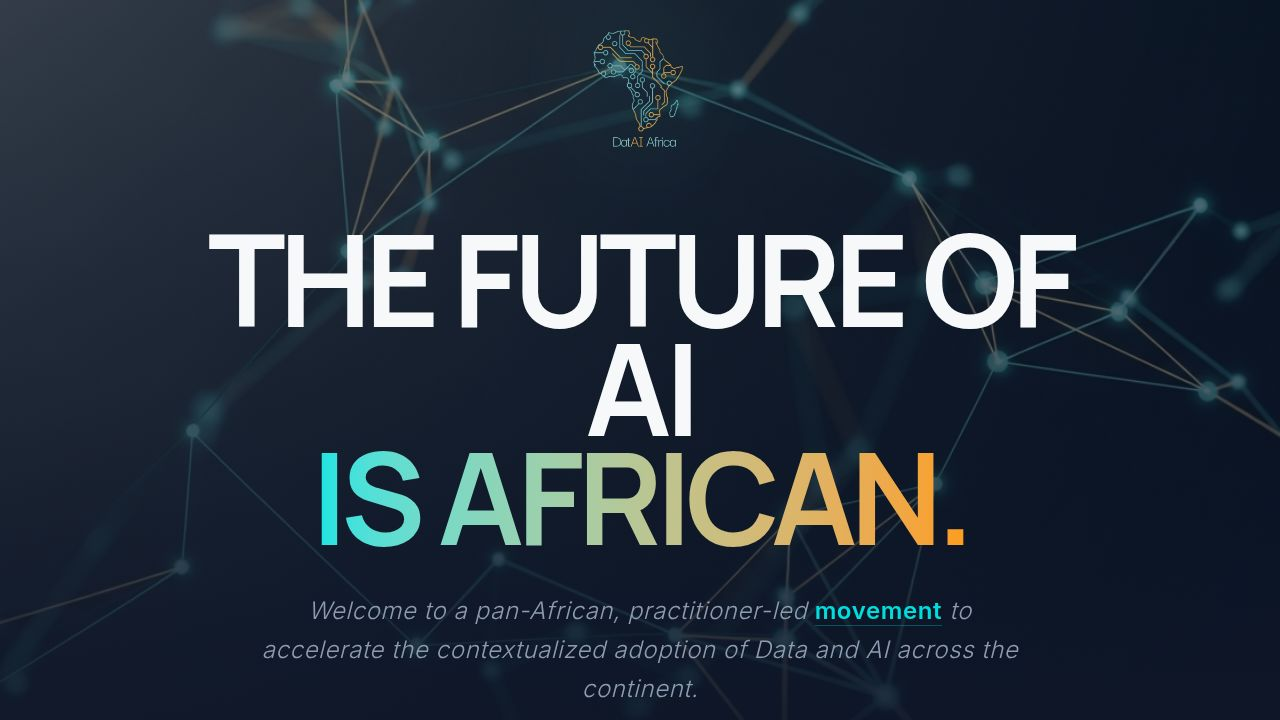
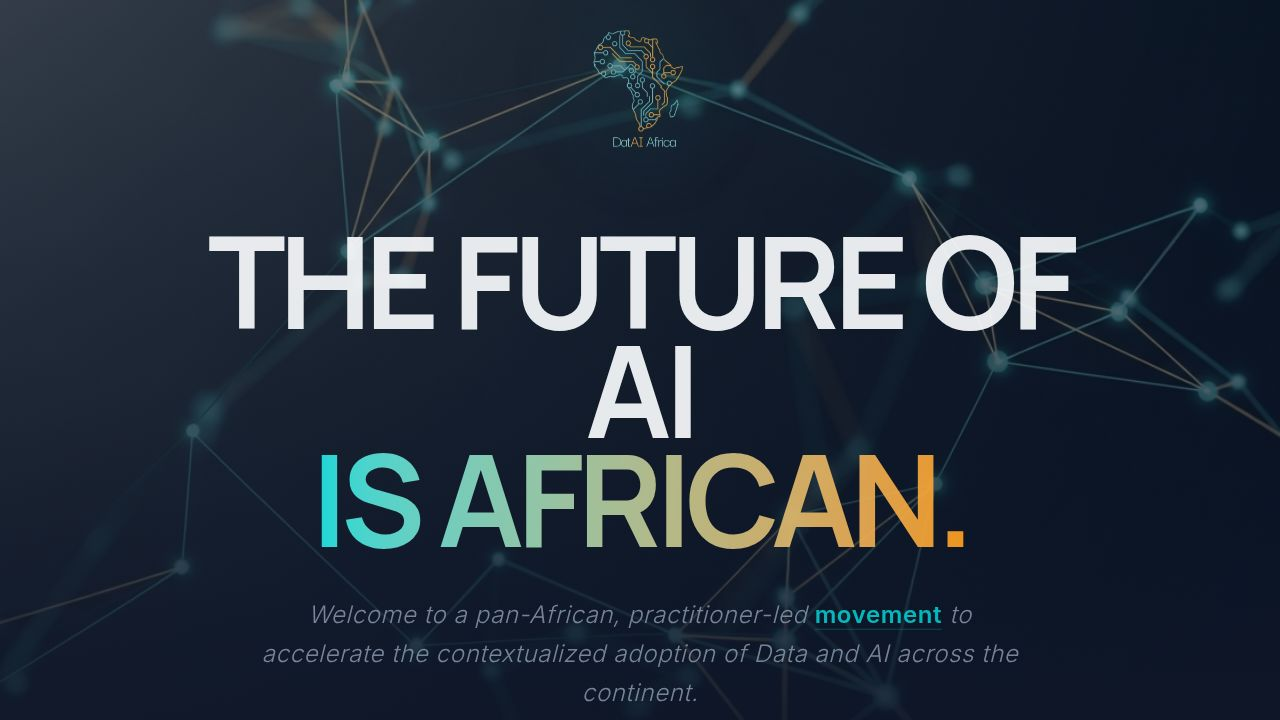
Remove top menu and simplify founder details
Remove navigation bar and associated UI elements. Update founder profiles to exclude affiliation and bio, retaining only name, title, and role. Adjust scroll indicator to be purely visual.

Replit-Commit-Author: Agent
Replit-Commit-Session-Id: 89f8b5c8-021f-4fc5-a3b9-48305f01afc3
Replit-Commit-Checkpoint-Type: full_checkpoint
Replit-Commit-Event-Id: 5c894a99-fb32-4057-9974-47ee66e29fc9
Replit-Commit-Screenshot-Url: https://storage.googleapis.com/screenshot-production-us-central1/46f56372-45ba-4769-ab80-b3005cdccf9d/89f8b5c8-021f-4fc5-a3b9-48305f01afc3/IW20U9H
Replit-Helium-Checkpoint-Created: true

diff --git a/client/src/pages/Home.tsx b/client/src/pages/Home.tsx
@@ -36,58 +36,28 @@ export default function Home() {
   const founders = [
     { 
       name: "Anouet Joseph", 
-      role: "Co-Founder", 
       title: "Chief Strategist & Executive Chairman",
-      affiliation: "Morgan Stanley",
-      bio: "Leading the architectural vision and long-term strategic direction of the movement.", 
       img: founder1Img 
     },
     { 
       name: "Dr. Patrick Duhirwe", 
-      role: "Co-Founder", 
       title: "Chief Research & Innovation",
-      affiliation: "University of Texas",
-      bio: "Driving cutting-edge R&D and contextualized AI innovation for the continent.", 
       img: founder2Img 
     },
     { 
       name: "Champion Musinde", 
-      role: "Co-Founder", 
       title: "Chief Operations & Delivery",
-      affiliation: "Sanofi",
-      bio: "Ensuring execution excellence and scalable deployment across African markets.", 
       img: founder3Img 
     },
     { 
       name: "Abel Gnonsoa", 
-      role: "Co-Founder", 
       title: "Chief Growth & Partnership",
-      affiliation: "Tata Consultancy Services",
-      bio: "Expanding the ecosystem and building strategic global-local alliances.", 
       img: founder1Img 
     }
   ];
 
   return (
     <div className="min-h-screen bg-background text-foreground overflow-x-hidden font-sans selection:bg-primary/30 selection:text-white antialiased">
-      
-      {/* Navigation */}
-      <nav className="fixed top-0 w-full z-50 bg-background/5 backdrop-blur-sm border-b border-white/5">
-        <div className="container mx-auto px-6 h-24 flex items-center justify-between">
-          <div className="flex items-center gap-3">
-            <img src={logoImg} alt="DatAI Africa Logo" className="h-12 w-12 object-contain" />
-            <span className="text-xl font-bold font-display tracking-tight text-white uppercase">DatAI <span className="text-primary">Africa</span></span>
-          </div>
-          <div className="flex items-center gap-6">
-            <Button variant="ghost" className="text-white hover:text-primary transition-colors gap-2 hidden sm:flex">
-              <Heart className="h-4 w-4 fill-primary text-primary" /> Donate
-            </Button>
-            <Button className="glass-button rounded-full px-8 h-12 font-medium">
-              Join Us
-            </Button>
-          </div>
-        </div>
-      </nav>
 
       {/* Hero Section */}
       <section className="relative min-h-screen flex items-center justify-center overflow-hidden">
@@ -132,19 +102,19 @@ export default function Home() {
           </motion.div>
         </div>
 
-        {/* Scroll Indicator */}
+        {/* Scroll Indicator - Visual Only */}
         <motion.div 
           initial={{ opacity: 0 }}
           animate={{ opacity: 1 }}
           transition={{ delay: 2, duration: 1 }}
-          className="absolute bottom-10 left-1/2 -translate-x-1/2 flex flex-col items-center gap-2 text-muted-foreground/50"
+          className="absolute bottom-10 left-1/2 -translate-x-1/2 flex flex-col items-center gap-1"
         >
-          <span className="text-xs uppercase tracking-[0.3em] font-medium">Scroll to explore</span>
           <motion.div
-            animate={{ y: [0, 10, 0] }}
-            transition={{ repeat: Infinity, duration: 2, ease: "easeInOut" }}
+            animate={{ y: [0, 12, 0] }}
+            transition={{ repeat: Infinity, duration: 1.8, ease: "easeInOut" }}
+            className="text-muted-foreground/40"
           >
-            <ChevronDown className="h-6 w-6" />
+            <ChevronDown className="h-8 w-8" />
           </motion.div>
         </motion.div>
       </section>
@@ -283,10 +253,9 @@ export default function Home() {
                 <div className="relative w-40 h-40 mb-8 rounded-full overflow-hidden border-2 border-primary/20 group-hover:border-primary group-hover:scale-105 transition-all duration-700 shadow-2xl">
                   <img src={founder.img} alt={founder.name} className="w-full h-full object-cover grayscale group-hover:grayscale-0 transition-all duration-1000 scale-110 group-hover:scale-100" />
                 </div>
-                <h3 className="text-2xl font-bold mb-1 tracking-tight uppercase">{founder.name}</h3>
-                <p className="text-primary text-sm font-semibold mb-1 uppercase tracking-widest">{founder.title}</p>
-                <p className="text-muted-foreground/60 text-xs font-medium mb-6 uppercase tracking-wider italic">Ex-{founder.affiliation}</p>
-                <p className="text-muted-foreground text-base leading-relaxed font-light flex-grow">{founder.bio}</p>
+                <h3 className="text-2xl font-bold mb-2 tracking-tight uppercase">{founder.name}</h3>
+                <p className="text-primary/60 text-xs font-semibold mb-1 uppercase tracking-widest">Co-Founder</p>
+                <p className="text-primary text-sm font-semibold uppercase tracking-widest">{founder.title}</p>
               </motion.div>
             ))}
           </div>
